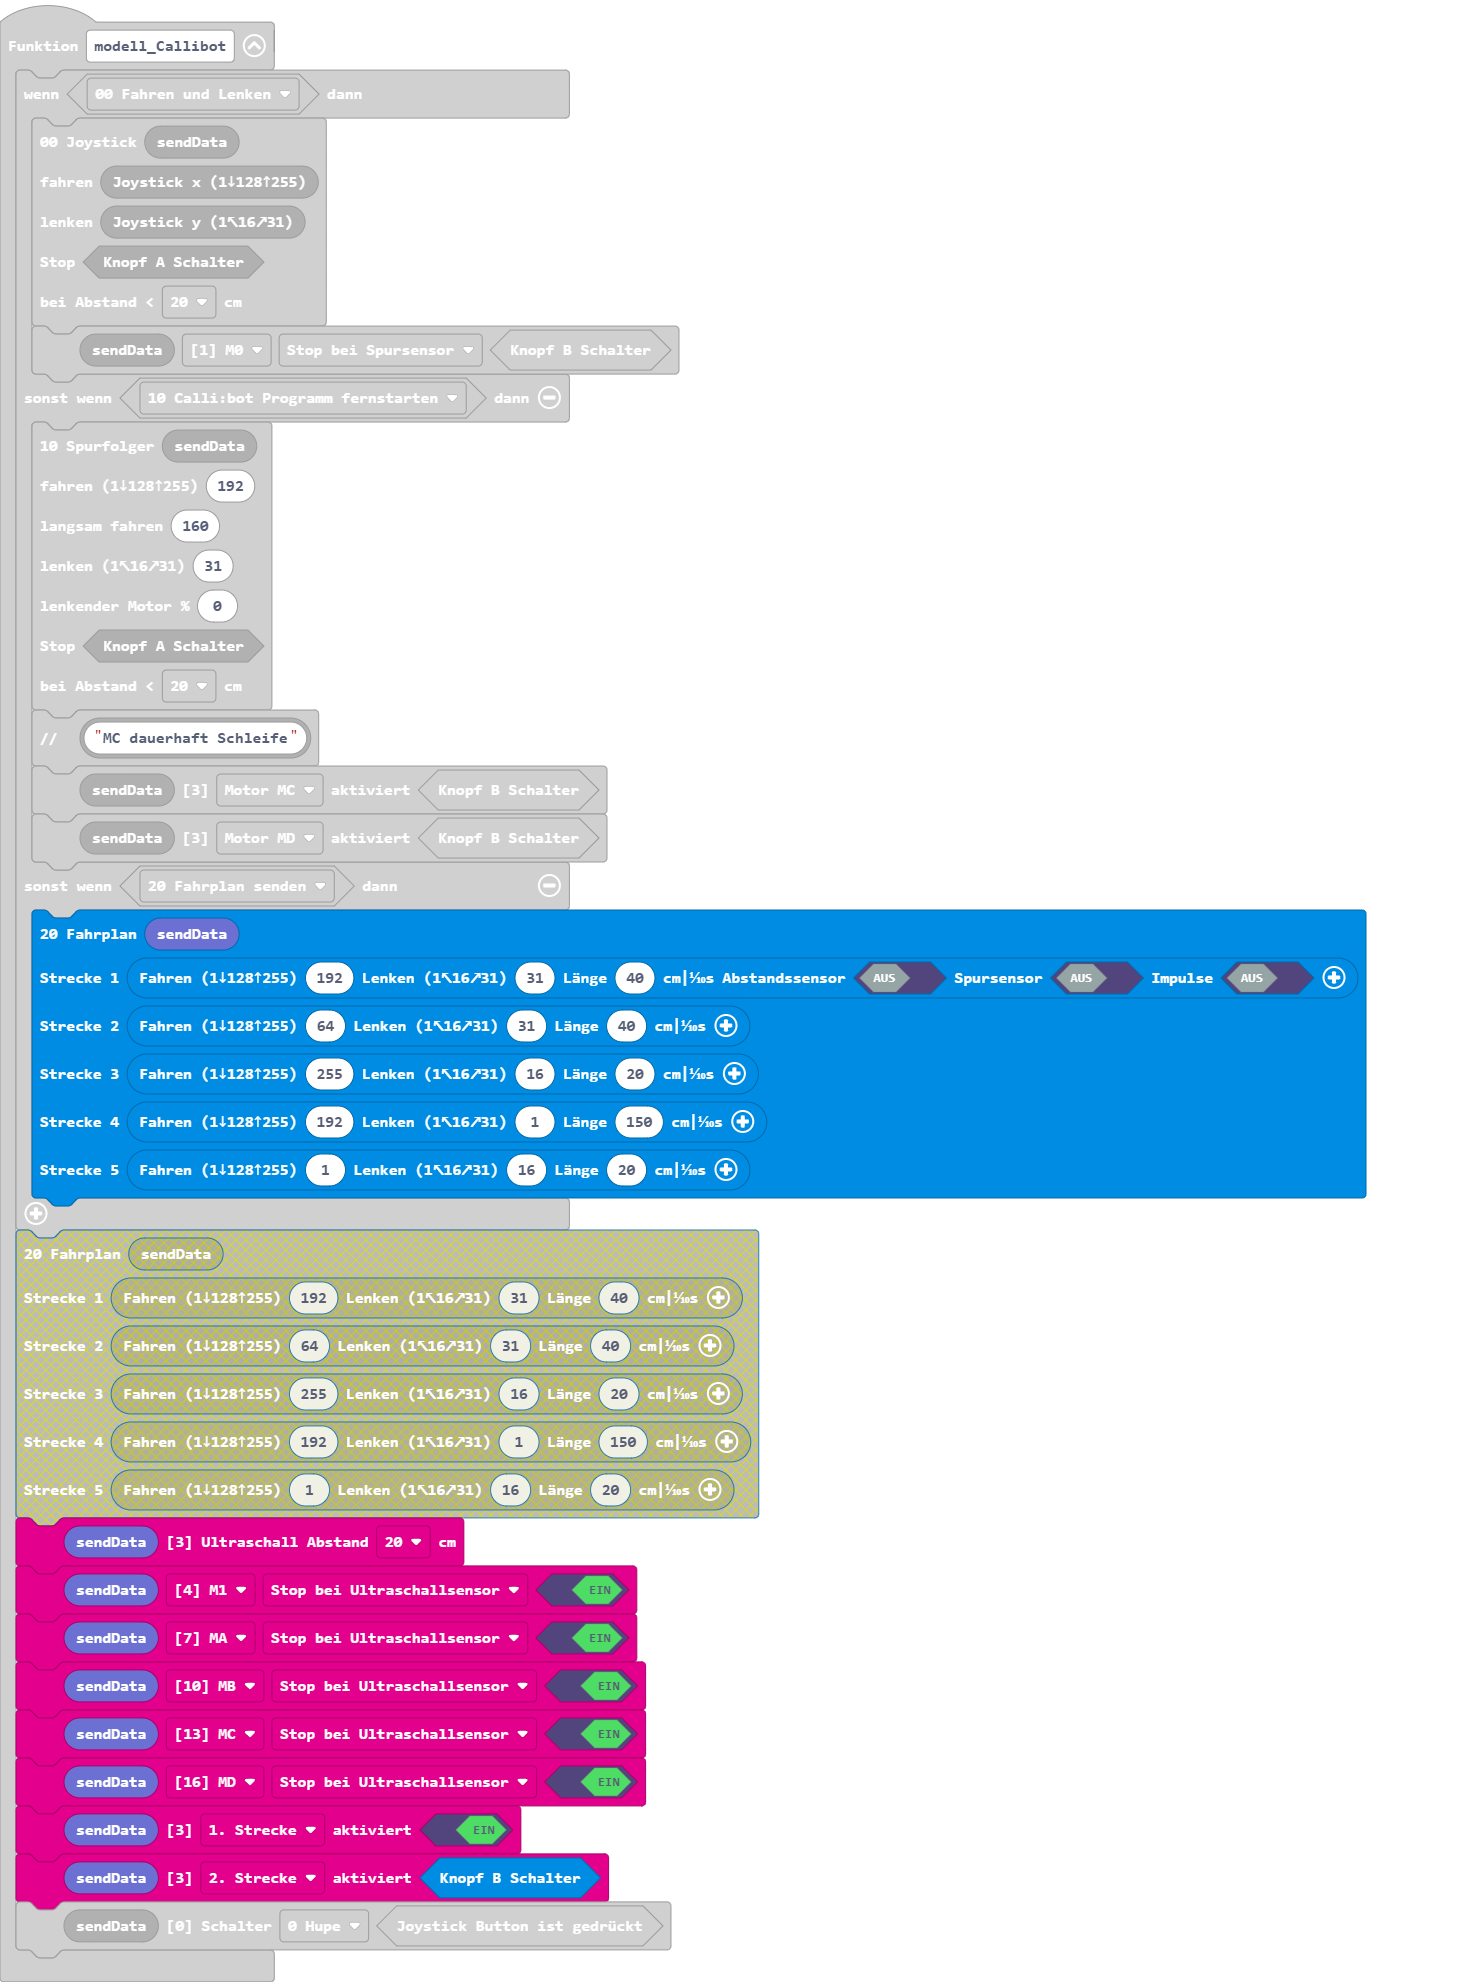
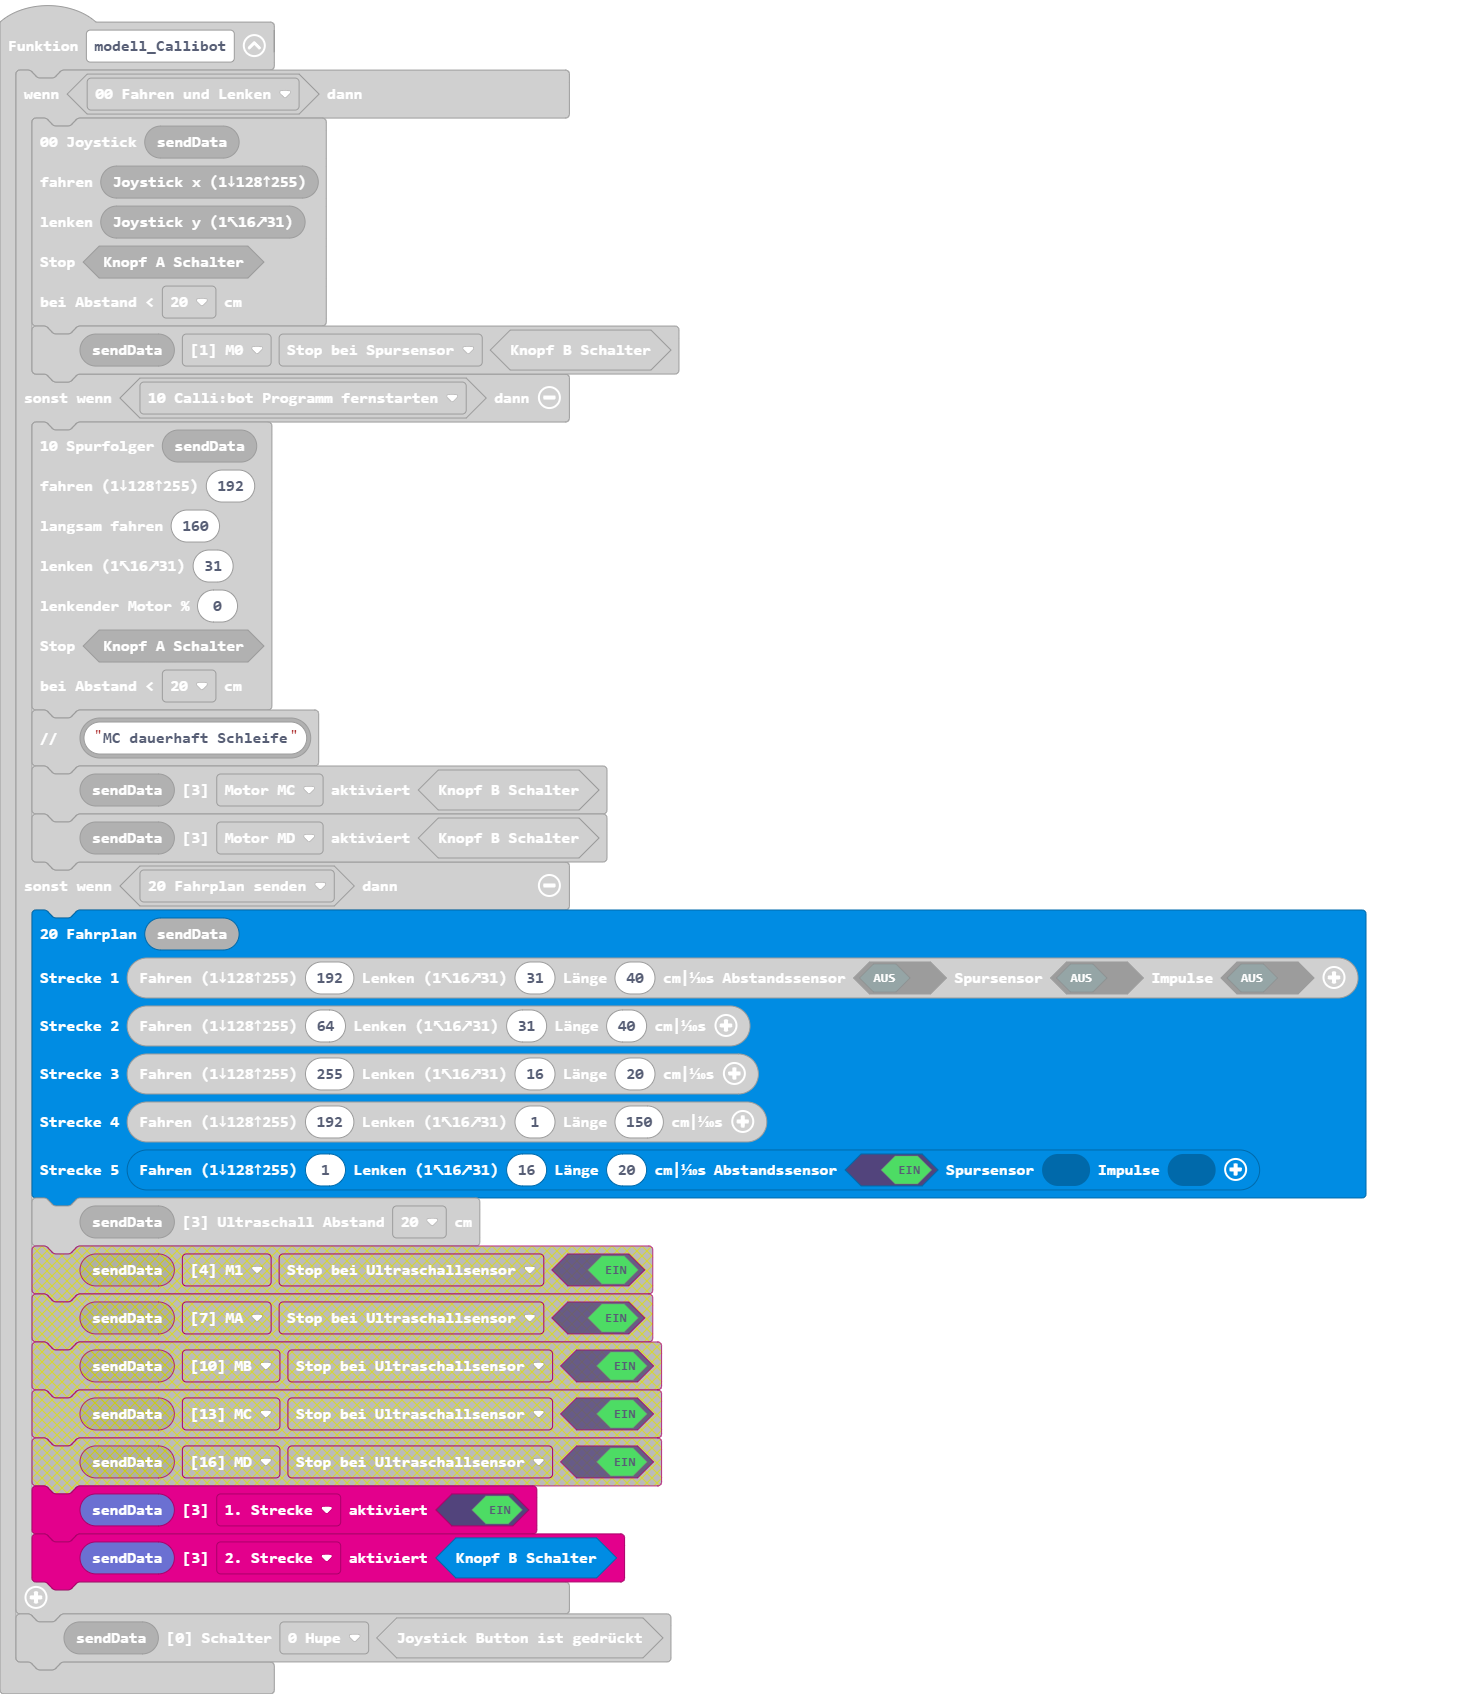
Aktualisiere pxt.json, main.blocks, main.ts

diff --git a/main.ts b/main.ts
@@ -31,11 +31,6 @@ function modell_Callibot () {
         sender.sender_Strecke(1, 16, 20)
         )
         btf.setAbstand(btf.btf_sendBuffer19(), btf.e3Abstand.u2)
-        btf.setSensor(btf.btf_sendBuffer19(), btf.eBufferPointer.m1, btf.eSensor.b6Abstand, true)
-        btf.setSensor(btf.btf_sendBuffer19(), btf.eBufferPointer.ma, btf.eSensor.b6Abstand, true)
-        btf.setSensor(btf.btf_sendBuffer19(), btf.eBufferPointer.mb, btf.eSensor.b6Abstand, true)
-        btf.setSensor(btf.btf_sendBuffer19(), btf.eBufferPointer.mc, btf.eSensor.b6Abstand, true)
-        btf.setSensor(btf.btf_sendBuffer19(), btf.eBufferPointer.md, btf.eSensor.b6Abstand, true)
         btf.setaktiviert(btf.btf_sendBuffer19(), btf.e3aktiviert.f1, true)
         btf.setaktiviert(btf.btf_sendBuffer19(), btf.e3aktiviert.f2, sender.sender_ButtonB_Switch())
     }
